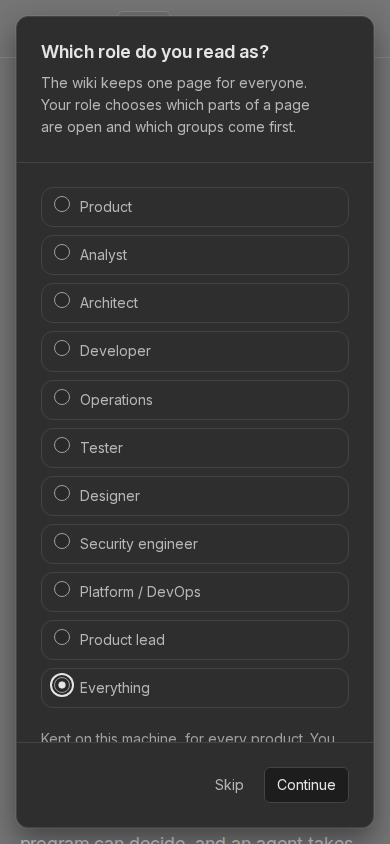
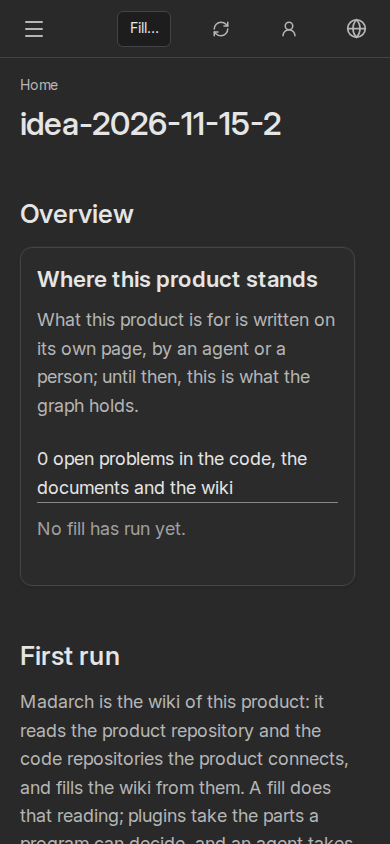
Retake the top-bar mockups with the role chosen, in both languages
Task: madarch-64o5.131

Changed region(s): [[0.0, 0.0, 1.0, 1.0]]

diff --git a/docs/changes/madarch-64o5.131/change.md b/docs/changes/madarch-64o5.131/change.md
@@ -53,8 +53,9 @@ mounted page.
 Static: `bun run check` passed; the wiki app's `bun run check` passed.
 Test: `run-indicator.test.tsx` 2 passed (never both; one mounted page switches from the run to the fill entry after the
 status read); the app suite 122 passed, 0 failed.
-Screens: `docs/changes/madarch-64o5.131/mockups/` holds 1440 and 390, light and dark, for the idle and running control;
-their text and geometry were read: one control in each state, and the page's scroll width equals its viewport.
+Screens: `docs/changes/madarch-64o5.131/mockups/` holds the idle and running control at 1440 and 390, light and dark,
+in English and Russian; their text and geometry were read: one control in each state, no first-visit role dialog, and the
+page's scroll width equals its viewport.
 Mutation: not run, filed per the stage rule.
 Review: pending; this record is for the review.
 
